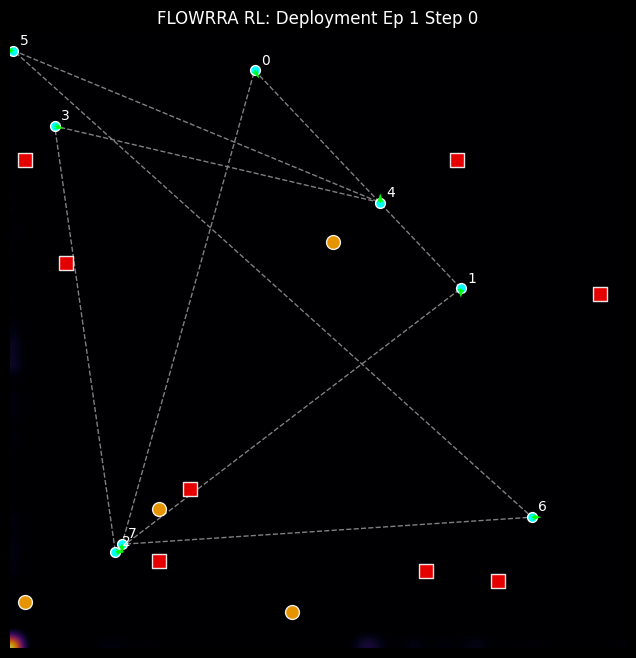
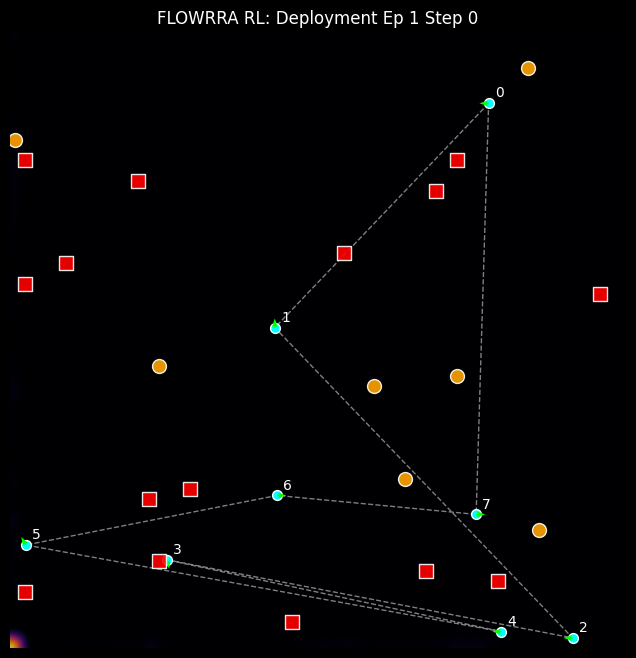
-changes to Repulsion Field, better coherence and avg coherence over steps

diff --git a/Version_2_RL/FLOWRRA_RL.py b/Version_2_RL/FLOWRRA_RL.py
@@ -371,7 +371,7 @@ class Flowrra_RL:
 
         logger.info("--- Training Complete ---")
 
-    def deploy(self, total_steps: int, visualize_every_n_steps: int, num_episodes: int = 1):
+    def deploy(self, total_steps: int=15, visualize_every_n_steps: int=5, num_episodes: int = 1):
         """Deployment with the attached agent."""
         if self.agent is None:
             raise ValueError("Agent not attached. Call attach_agent() before deploy().")
@@ -387,7 +387,7 @@ class Flowrra_RL:
             for step in range(total_steps):
                 state = self.get_state()
                 # Increased exploration during deployment to see swarm behavior
-                actions = self.agent.choose_actions(state, episode_number=episode_num, total_episodes=num_episodes, eps_peak=0.7)
+                actions = self.agent.choose_actions(state, episode_number=episode_num, total_episodes=num_episodes, eps_peak=0.6)
                 rewards, done, info = self.step(list(actions))
 
                 if step % visualize_every_n_steps == 0:
@@ -403,7 +403,7 @@ class Flowrra_RL:
                     except Exception as e:
                         logger.debug(f"Deployment visualization failed at step {step}: {e}")
                     
-                    time.sleep(1)  # Reduced pause for faster visualization
+                    time.sleep(2)  # Reduced pause for faster visualization
 
                 if done:
                     logger.info(f"Deployment episode {episode_num + 1} ended at step {step}")

diff --git a/Version_2_RL/EnvironmentA_RL.py b/Version_2_RL/EnvironmentA_RL.py
@@ -39,22 +39,23 @@ class Environment_A:
     
     def reset(self):
         """
-        Resets the environment to its initial state for a new episode.
-        This includes re-initializing the nodes at new random positions.
+        Resets the environment, generating new, random positions for all nodes.
+        This is called at the start of each new training episode.
         """
-        if self.seed is not None:
-            np.random.seed(self.seed)
-            random.seed(self.seed)
-            
+        # A new random seed for each reset ensures a unique starting position
+        seed_value = np.random.randint(0, 10000)
+        np.random.seed(seed_value)
+        
         self.nodes = []
         for i in range(self.num_nodes):
             node = Node_Position(
                 id=i,
-                pos=np.random.rand(2),
-                angle_idx=random.randrange(0, self.angle_steps),
+                pos=np.random.rand(2), # Assign a random position
+                angle_idx=np.random.randint(0, self.angle_steps),
                 angle_steps=self.angle_steps
             )
             self.nodes.append(node)
+        
         self.loopdata = [self.snapshot_nodes()]
         self.t = 0
 

diff --git a/Version_2_RL/main_runner_rl.py b/Version_2_RL/main_runner_rl.py
@@ -8,6 +8,8 @@ import logging
 import os
 import shutil
 import numpy as np
+import pandas as pd
+import matplotlib.pyplot as plt
 
 from FLOWRRA_RL import Flowrra_RL
 from RLAgent import SharedRLAgent
@@ -27,8 +29,8 @@ if __name__ == '__main__':
 
         # EnvironmentB Params
         'env_b_grid_size': 60,
-        'env_b_num_fixed': 8,   # Reduced obstacles
-        'env_b_num_moving': 4,  # Reduced moving obstacles
+        'env_b_num_fixed': 15,   # Reduced obstacles
+        'env_b_num_moving': 7,  # Reduced moving obstacles
 
         # RL Params
         'action_size': 16,
@@ -114,3 +116,13 @@ if __name__ == '__main__':
     gif_path = os.path.join(config['visual_dir'], 'flowrra_rl_deployment.gif')
     create_gif(config['visual_dir'], gif_path, pattern="deploy_*.png")
     logger.info(f"--- GIF created at {gif_path} ---")
+
+
+    # One-liner to read and plot the coherence
+    try:
+        df = pd.read_csv('flowrra_rl_log.csv')
+        df.plot(x='step', y='avg_coherence', title='Coherence Over Time')
+        plt.savefig("Coherence_Over_Time.png")
+        plt.show()
+    except FileNotFoundError:
+        logging.error("Log file not found. Could not generate coherence plot.")
